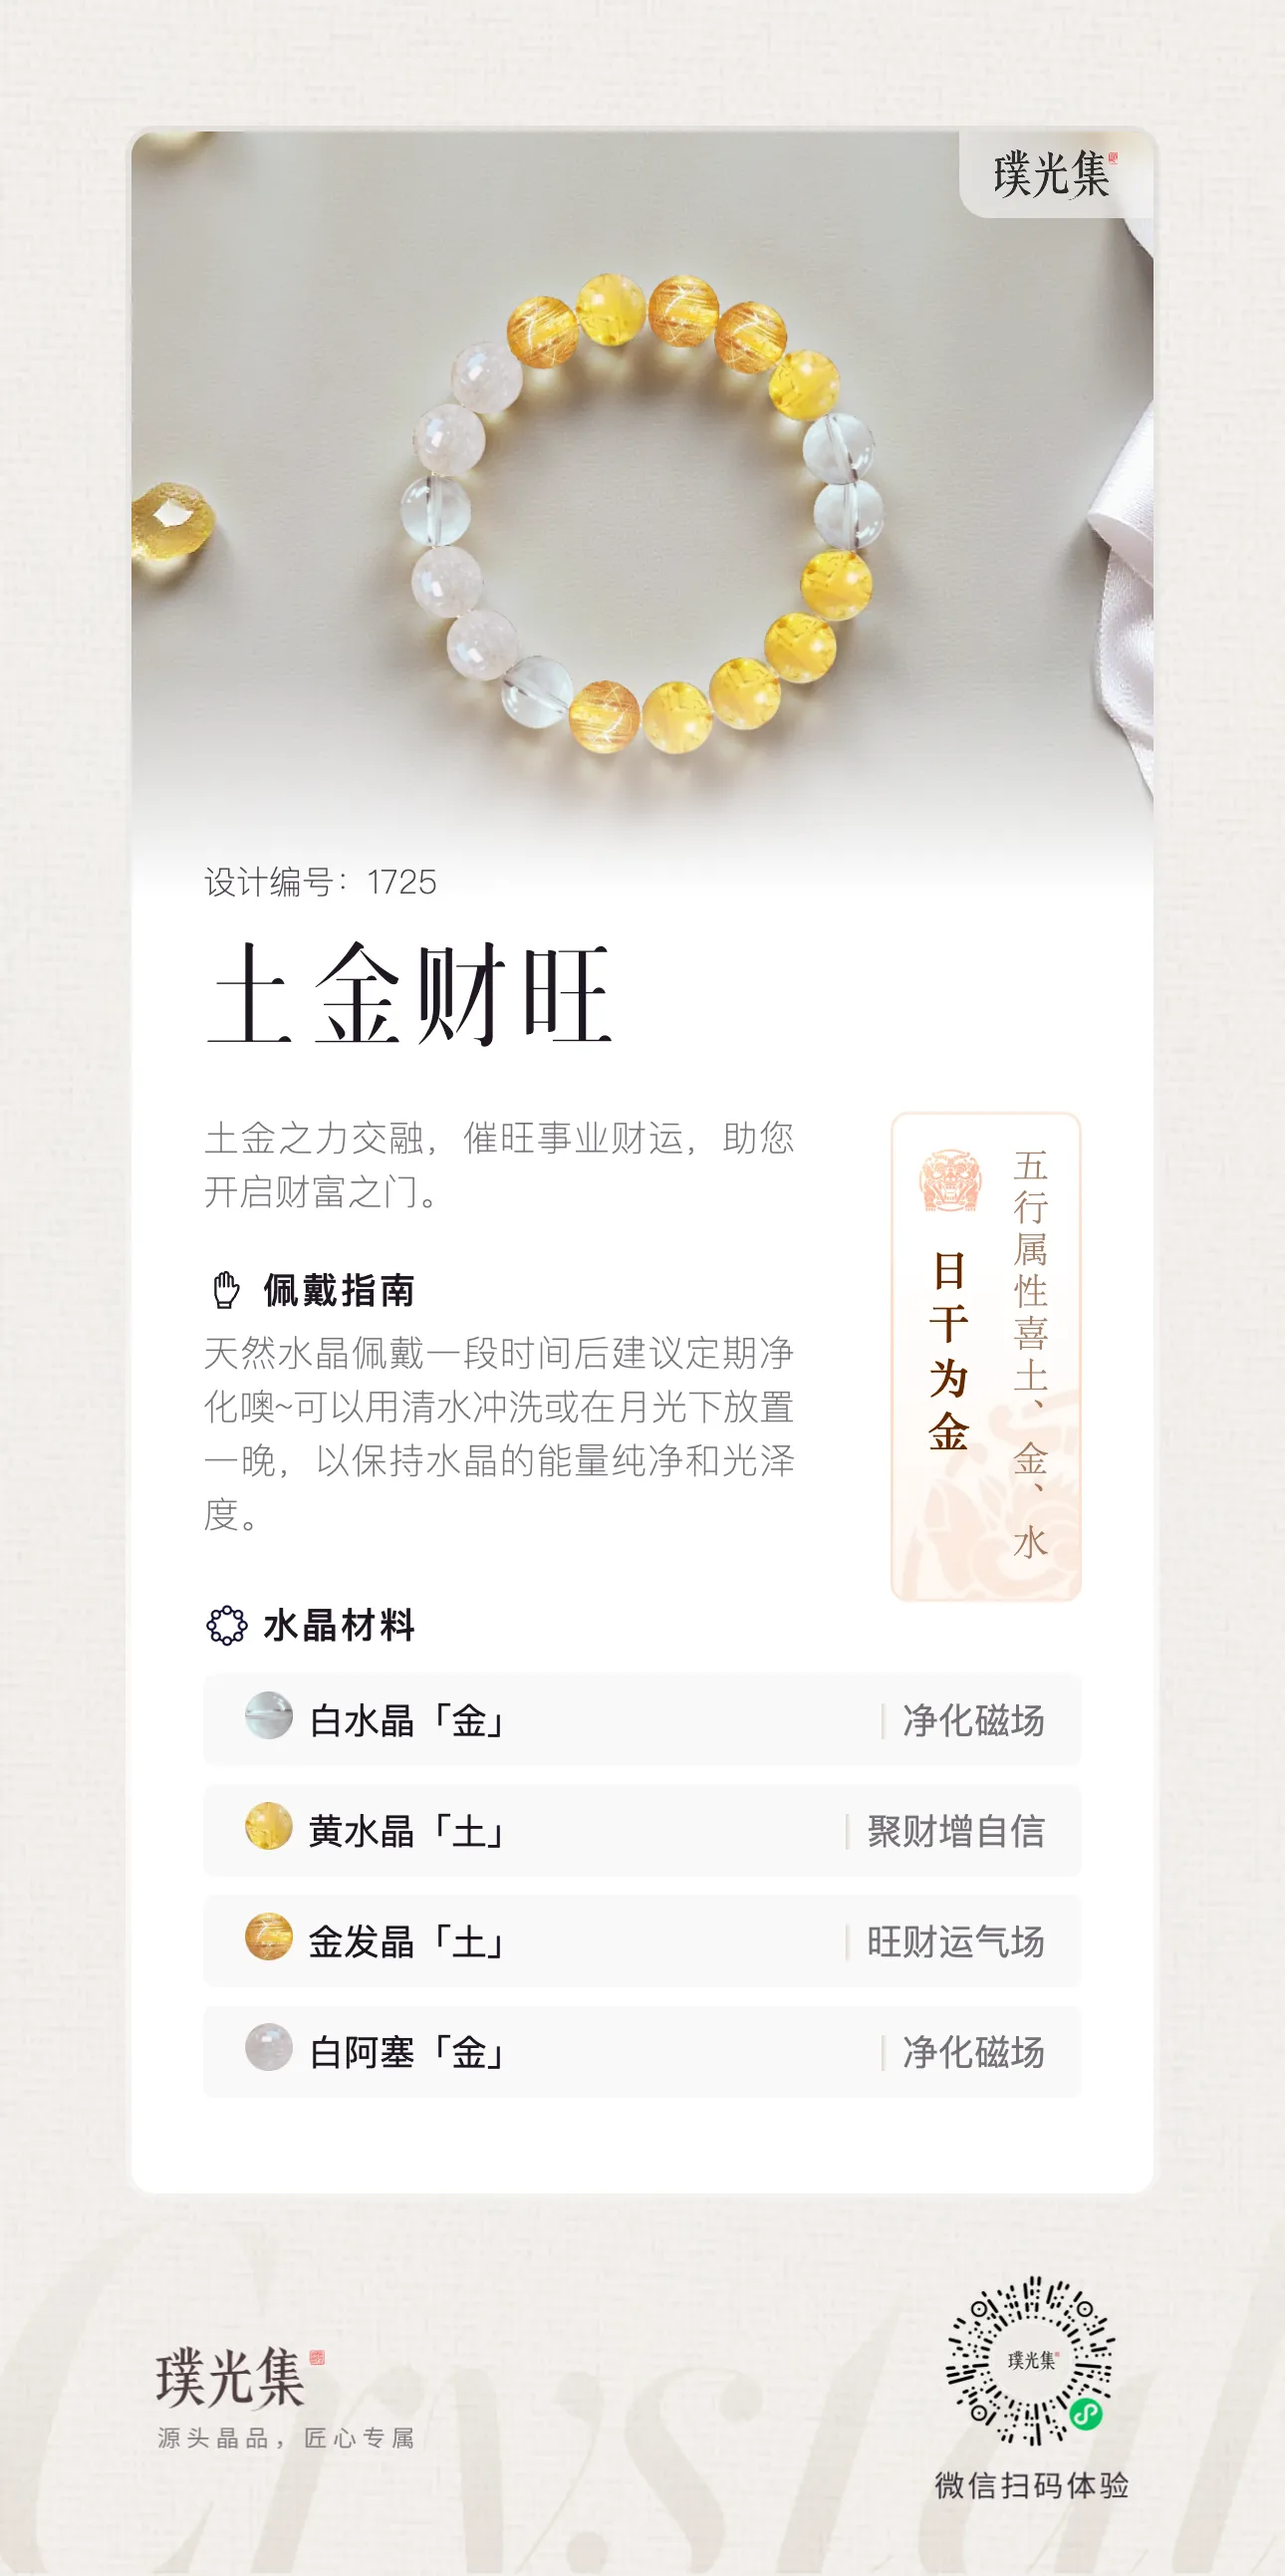
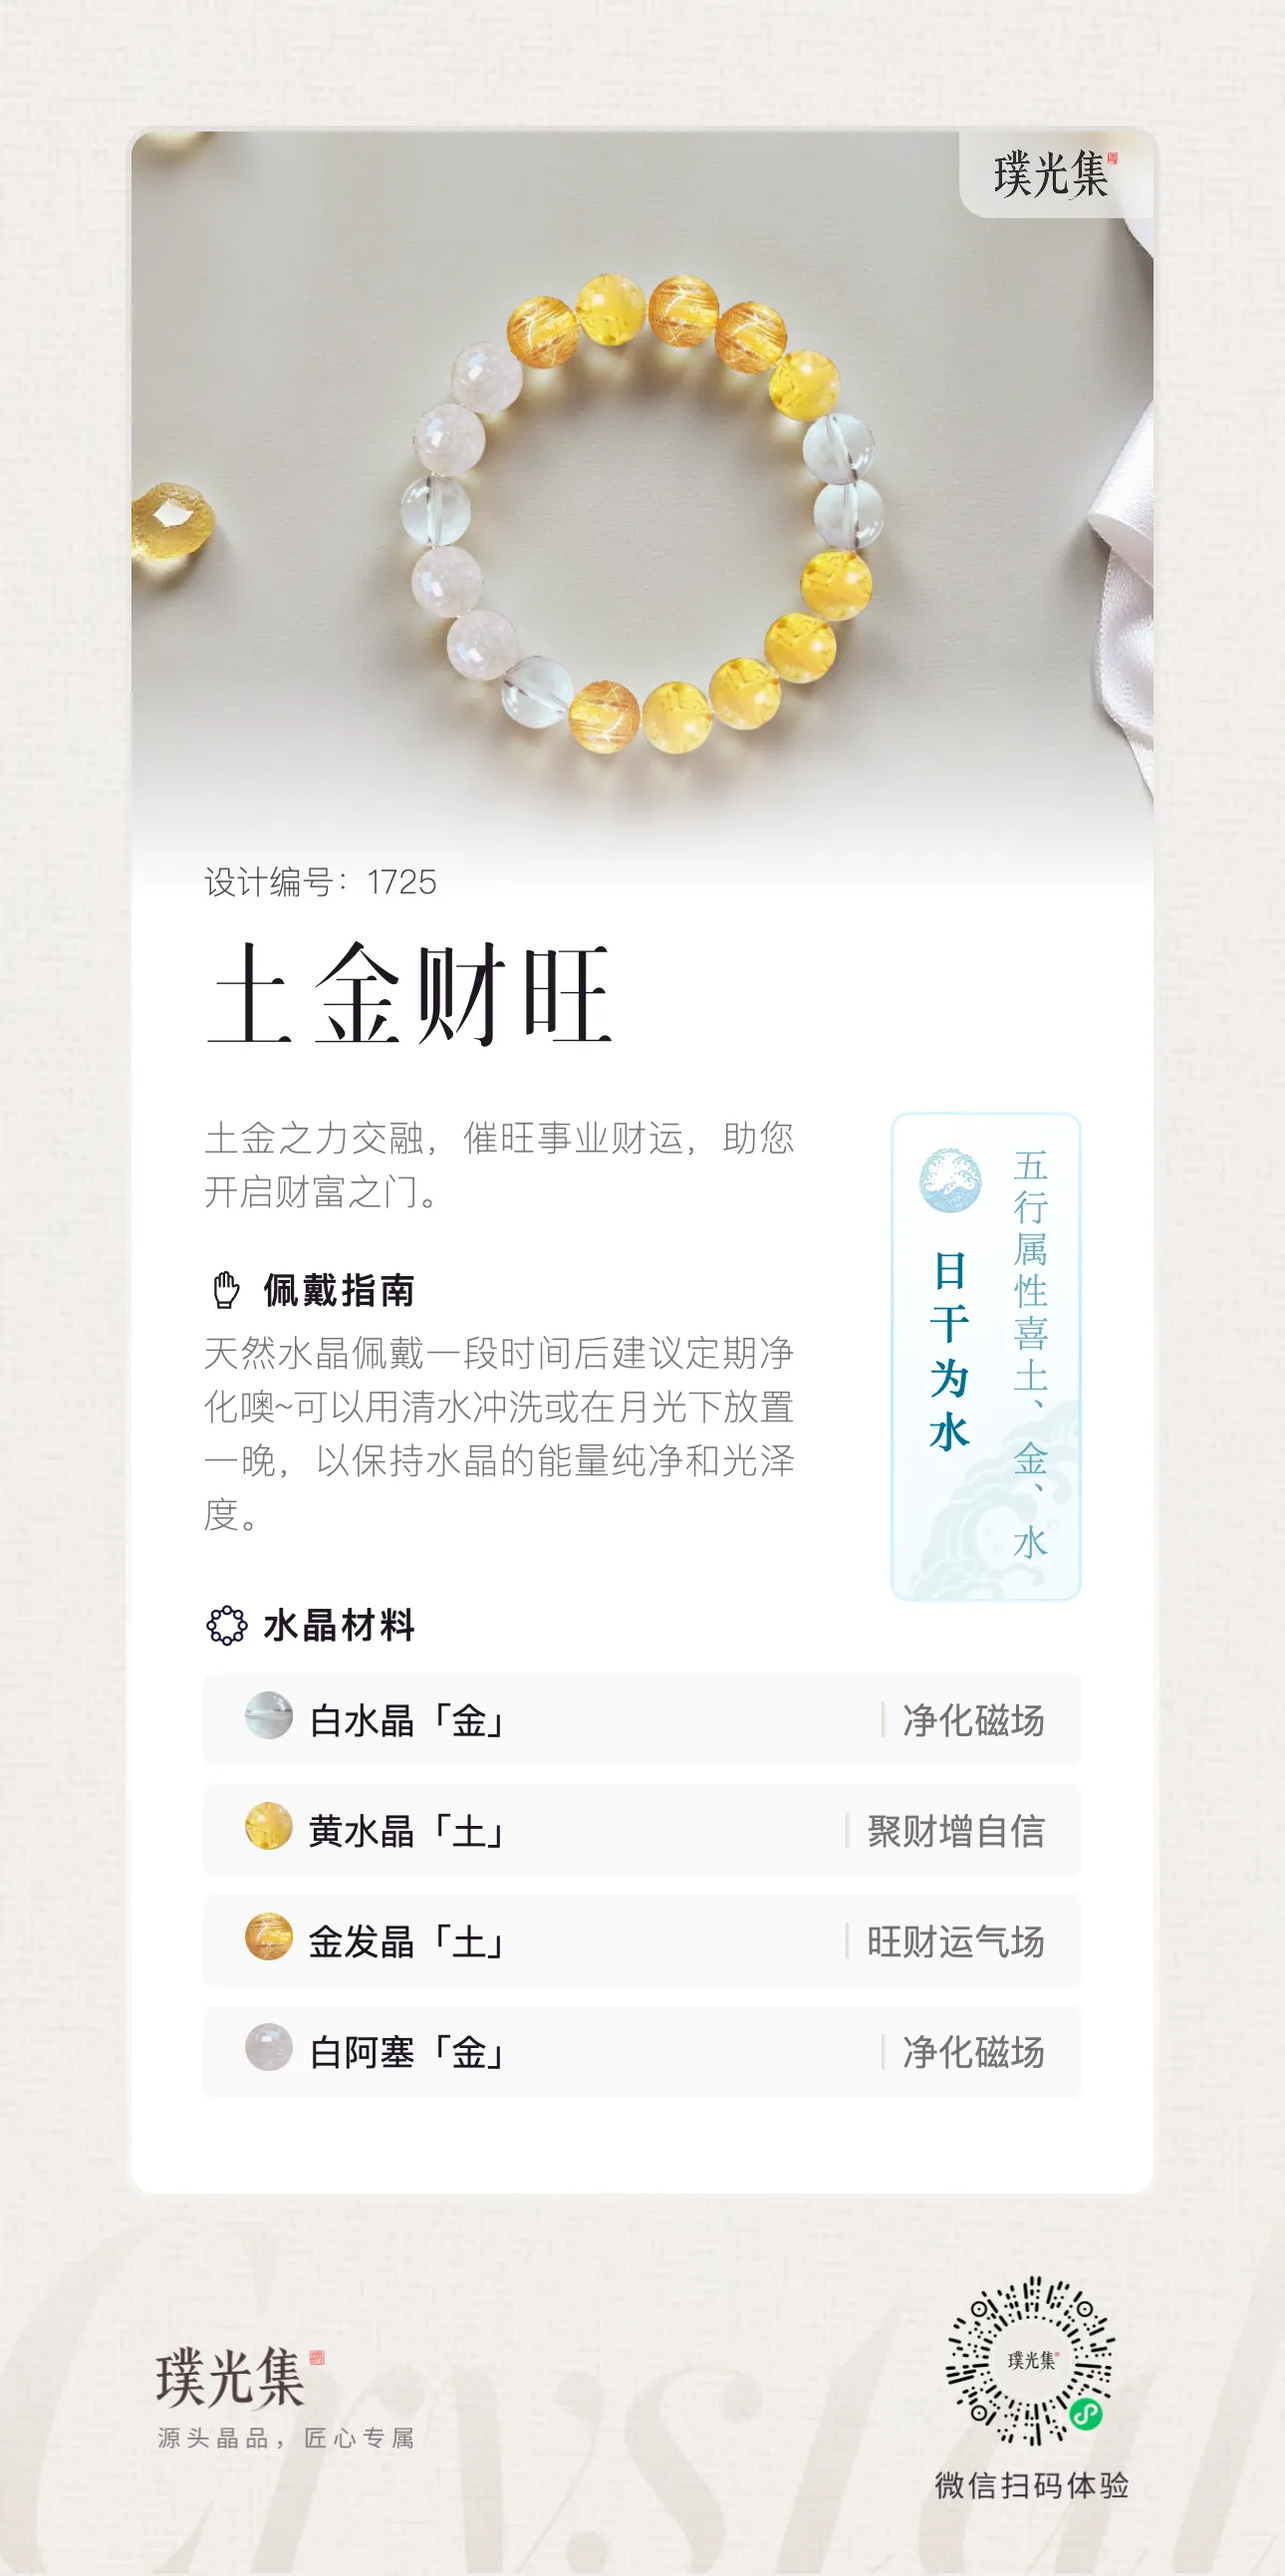
样式优化

Changed region(s): [[0.6822, 0.4331, 0.8682, 0.6187], [0.7752, 0.0619, 0.8062, 0.0928]]

diff --git a/node-poster/public/poster.html b/node-poster/public/poster.html
@@ -224,7 +224,6 @@
         .wuxing-image {
             width: 100%;
             height: 100%;
-            object-fit: cover;
         }
 
         .wuxing-content {
@@ -382,7 +381,7 @@
                             </div>
                             <div class="design-desc-right-bottom">
                                 <div class="design-desc-right-bottom-title">
-                                    <img src="/assets/wear-tip-icon.svg" class="title-image" />
+                                    <img src="https://zhuluoji.cn-sh2.ufileos.com/images-frontend/poster/wear-tip-icon.svg" class="title-image" />
                                     <div>佩戴指南</div>
                                 </div>
                                 <div class="design-desc-right-bottom-content">
@@ -391,12 +390,12 @@
                             </div>
                         </div>
                         <div class="design-desc-left">
-                            <img class="wuxing-image" src="/assets/jin-bg.png" />
+                            <img class="wuxing-image" src="https://zhuluoji.cn-sh2.ufileos.com/images-frontend/wu-xing/huo-bg.png" />
                             <div class="wuxing-content">
                                 <div class="wuxing-content-right">
-                                    <img class="wuxing-icon" src="/assets/jin-icon.png" />
+                                    <img class="wuxing-icon" src="https://zhuluoji.cn-sh2.ufileos.com/images-frontend/wu-xing/huo-icon.png" />
                                     <div class="wuxing-text" style="color: #66290099">
-                                        日主为金
+                                        日主为火
                                     </div>
                                 </div>
                                 <div class="wuxing-description" style="color: #66290099">
@@ -407,7 +406,7 @@
                     </div>
                     <div class="crystal-list-container">
                         <div class="design-desc-right-bottom-title">
-                            <img src="/assets/crystal-material.png" class="title-image" />
+                            <img src="https://zhuluoji.cn-sh2.ufileos.com/images-frontend/poster/crystal-material.png" class="title-image" />
                             <div>水晶材料</div>
                         </div>
                         <div class="crystal-list">

diff --git a/node-poster/src/utils/getCrystalPosterTemplate.js b/node-poster/src/utils/getCrystalPosterTemplate.js
@@ -265,7 +265,6 @@ export default function getCrystalPosterTemplate({ posterData }) {
         .wuxing-image {
             width: 100%;
             height: 100%;
-            object-fit: cover;
         }
 
         .wuxing-content {
